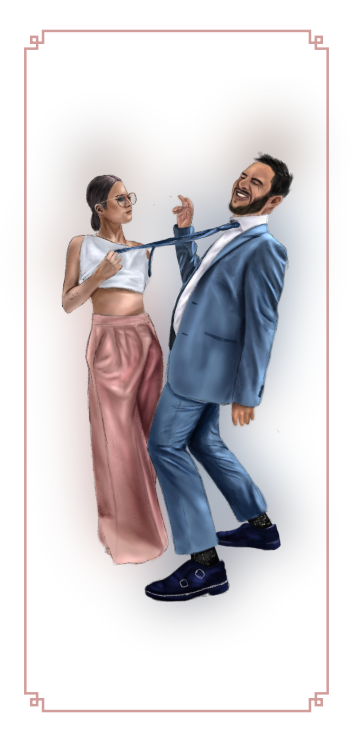
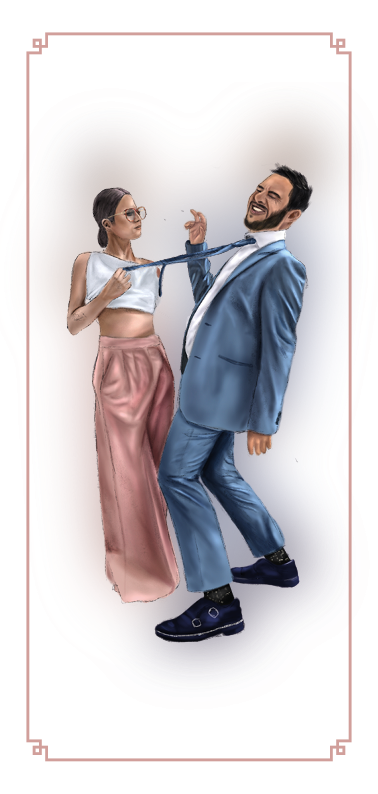
added new stuff and slowed down animation

diff --git a/src/components/working/working.js b/src/components/working/working.js
@@ -35,7 +35,7 @@ const Working = () => {
         const animationZoom = gsap.fromTo(".envelopeContainer",
             { scale: 1 },
             {
-                scale: 0.85,
+                scale: 0.75,
                 ease: "none"
             })
 
@@ -113,7 +113,7 @@ const Working = () => {
         //pin dell'immagine
         ScrollTrigger.create({
             trigger: '.scroll_element',
-            start: vh(100) /*per mobile non deve esserci + " 10%"*/,
+            start: vh(100), //per mobile non deve esserci + " 10%"
             endTrigger: '',
             end: 'bottom top',
             pin: '.envelopeContainer'
@@ -193,18 +193,18 @@ const Working = () => {
             scrub: true,
         })
     })
-
+    //fff6f5
 
     return (
         <fragment>
             <BrowserView>
                 <div className='App'>
                     <div className="page_container" style={{ width: '100%', height: '100vh' }}>
-                        <div className='scroll_element' style={{ backgroundColor: '#fff6f5' }}>
+                        <div className='scroll_element background_color_pink'>
                         </div>
-                        <div style={{ flex: 1, backgroundColor: '#fff6f5' }}>
+                        <div className='background_color_pink' style={{ flex: 1 }}>
                         </div>
-                        <div style={{ flex: 1, backgroundColor: '#fff6f5' }}>
+                        <div className='background_color_pink' style={{ flex: 2 }}>
                             <div className='divSpace-working'>
                                 <div>
                                     Scroll Down
@@ -228,7 +228,7 @@ const Working = () => {
                                 </div >
                             </div >
                         </div>
-                        <div style={{ flex: 1, backgroundColor: '#fff6f5' }}>
+                        <div className='background_color_pink' style={{ flex: 1 }}>
                         </div>
                     </div>
                 </div>

diff --git a/src/components/working/working.css b/src/components/working/working.css
@@ -25,6 +25,9 @@ body {
     flex-direction: row;
 }
 
+.background_color_pink{
+  background-color: #fff6f5;
+}
 
 .box-container-working {
     min-height: 200px;
@@ -44,6 +47,7 @@ body {
     background-position: center;
     background-size: cover;
     background-repeat: no-repeat;
+    object-fit: contain;
 }
 
 .partecipazione_front {
@@ -63,7 +67,7 @@ body {
 }
 
 .envelope {
-    height: 80%;
+    height: 70%;
     width: 250px;
     text-align: center;
     left: 0px;
@@ -72,14 +76,15 @@ body {
 }
 
 .rotating_part {
-    height: 20%;
+    height: 33.5%;
     width: 250px;
     background-position: center;
     background-size: cover;
     background-repeat: no-repeat;
     position: absolute;
-    bottom: 0;
+    bottom: -13%;
     z-index: 9999;
+    object-fit: contain;
 }
 
 .rotating_part_front {
@@ -94,7 +99,7 @@ body {
 
 .scroll_element {
     position: absolute;
-    height: 6000px;
+    height: 900vh;
     width: 10px;
     top: 0;
     z-index: 0;

diff --git a/src/index.css b/src/index.css
@@ -5,9 +5,12 @@ body {
     sans-serif;
   -webkit-font-smoothing: antialiased;
   -moz-osx-font-smoothing: grayscale;
+  background-color: #fff6f5;
 }
 
 code {
   font-family: source-code-pro, Menlo, Monaco, Consolas, 'Courier New',
     monospace;
 }
+
+

diff --git a/src/pages/home.js b/src/pages/home.js
@@ -1,6 +1,4 @@
 import React from 'react';
-import SpinningDiv from '../components/SpinningDiv/spinningDiv';
-import Example from '../components/example/example';
 import Working from '../components/working/working';
 
 function Home() {
